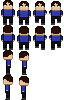
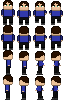
added left + right walk animations

Changed region(s): [[0.7812, 0.51, 0.9688, 1.0], [0.5312, 0.51, 0.7188, 1.0]]

diff --git a/src/main.cpp b/src/main.cpp
@@ -57,6 +57,7 @@ void handleInput() {
         if (playerDir != 2) {
             playerDir = 2;
         }
+        player->setAnimation("left_walk");
         playerMoving = true;
     }
 
@@ -64,6 +65,7 @@ void handleInput() {
         if (playerDir != 3) {
             playerDir = 3;
         }
+        player->setAnimation("right_walk");
         playerMoving = true;
     }
 
@@ -188,11 +190,15 @@ int main() {
 
     Animation leftWalk("left_walk");
     leftWalk.addFrame("player", 3, 2, 4, 3, 200);
+    leftWalk.addFrame("player", 3, 1, 4, 2, 100);
     leftWalk.addFrame("player", 3, 3, 4, 4, 200);
+    leftWalk.addFrame("player", 3, 1, 4, 2, 100);
 
     Animation rightWalk("right_walk");
     rightWalk.addFrame("player", 2, 2, 3, 3, 200);
+    rightWalk.addFrame("player", 2, 1, 3, 2, 100);
     rightWalk.addFrame("player", 2, 3, 3, 4, 200);
+    rightWalk.addFrame("player", 2, 1, 3, 2, 100);
 
     player->addAnimation("front_walk", frontWalk);
     player->addAnimation("back_walk", backWalk);
